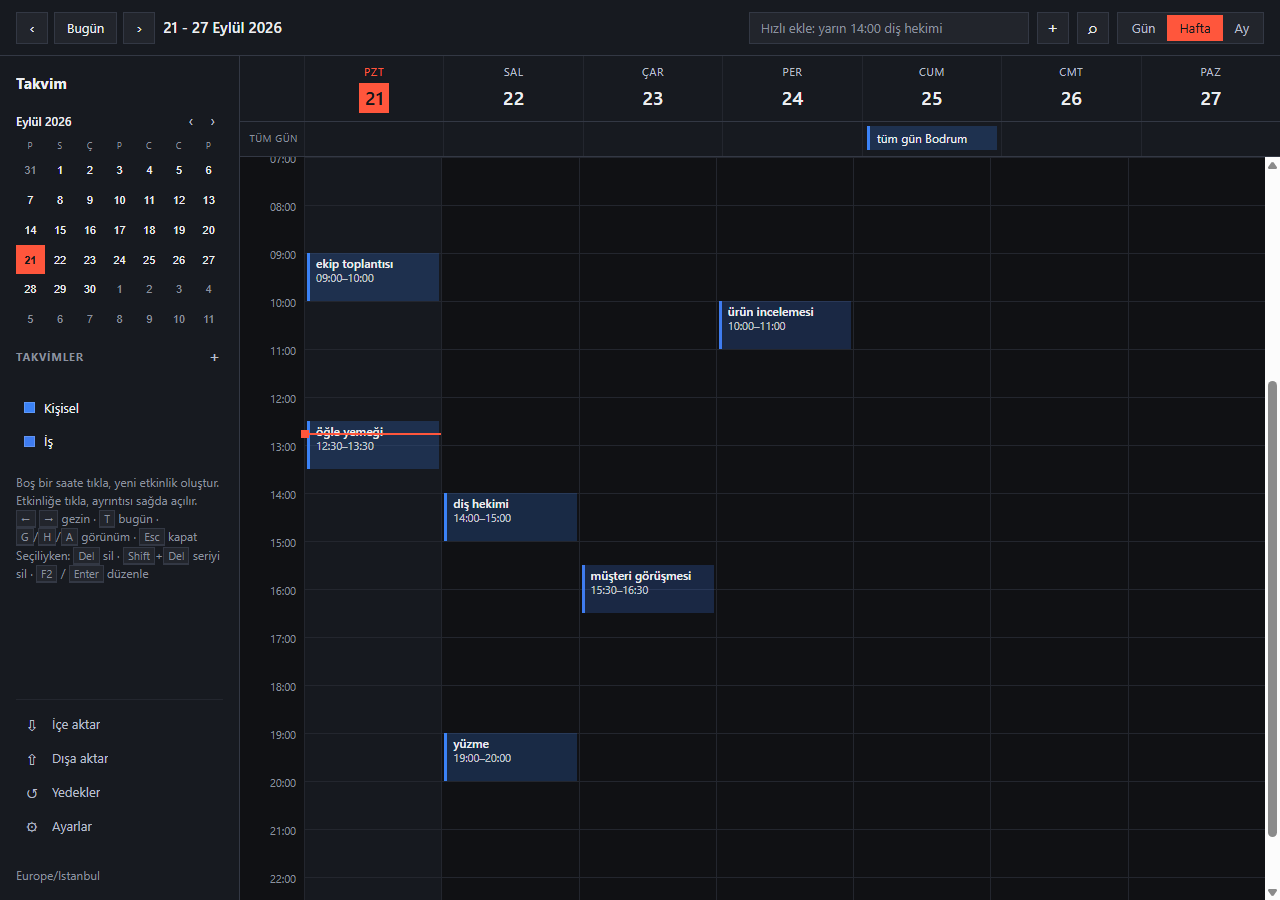
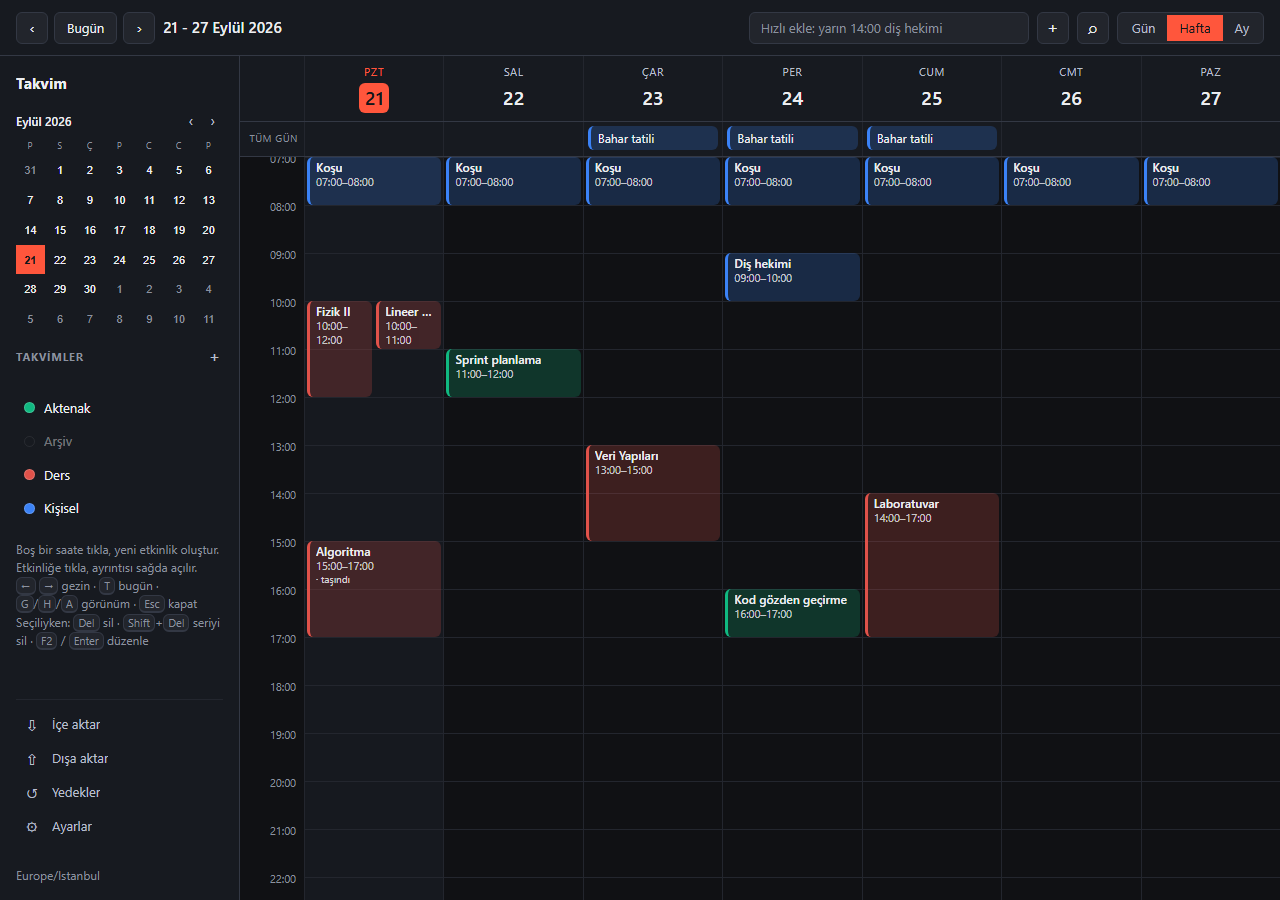
README: metin hatalarını düzelt, hero ekran görüntüsünü güncelle
- Gerçek TAB baytı yüzünden bozuk olan log yolu düzeltildi
  (%LOCALAPPDATA%\Takvim<TAB>akvim.log -> ...\Takvim\takvim.log)
- Otomatik başlatma PowerShell örneğindeki sabit kişisel yol
  (C:\Users\Arda\...) kaldırıldı, proje kökünden otomatik türetiliyor;
  kısayol adı kodla (Takvim Hatırlatıcı.lnk) eşleşecek şekilde düzeltildi
- "DPI farkındalığı hâlâ yapılmadı" iddiası güncel değildi (v1.3.0'da
  eklendi) -- §10 buna göre düzeltildi
- Hero ekran görüntüsü yeni köşe yarıçapıyla (6px) ve çoklu takvim
  örneğiyle yeniden alındı (demo veri, gerçek kullanıcı verisi değil)

diff --git a/README.md b/README.md
@@ -242,7 +242,7 @@ Uygulama artık sessizce kapanmıyor: başlatma hatası olursa bir uyarı pencer
 - **Bildirim görünmüyor** — Odaklanma Yardımı toast'ları bastırıyor olabilir.
   Sınamak için: `Takvim.exe` yerine `python -m remind --test`.
 - **Hiçbir şey olmuyor** — `.exe` artık penceresiz derlendiği için ekranda
-  konsol yok; ne olduğu `%LOCALAPPDATA%\Takvim	akvim.log` dosyasında yazıyor.
+  konsol yok; ne olduğu `%LOCALAPPDATA%\Takvim\takvim.log` dosyasında yazıyor.
 - **"Windows bilgisayarınızı korudu"** — `.exe` imzasız olduğu için SmartScreen
   ilk çalıştırmada uyarabilir. Adım adım: bkz. §5, "İlk kurulum" altı.
 
@@ -557,8 +557,9 @@ arayüzdeki ⚙ Ayarlar kutusundaki anahtar yeterli (kurulumu da kaldırılması
 oradan). Elle yapmak istersen karşılığı:
 
 ```powershell
-$hedef = "$env:APPDATA\Microsoft\Windows\Start Menu\Programs\Startup\Takvim Hatirlatici.lnk"
-$kok = "C:\Users\Arda\Desktop\Aktenak\Projeler\takvim"
+# Takvim proje kökünde çalıştır (bu klasörde .venv\ olmalı).
+$hedef = "$env:APPDATA\Microsoft\Windows\Start Menu\Programs\Startup\Takvim Hatırlatıcı.lnk"
+$kok = (Get-Location).Path
 $w = New-Object -ComObject WScript.Shell
 $k = $w.CreateShortcut($hedef)
 $k.TargetPath = "$kok\.venv\Scripts\pythonw.exe"
@@ -622,10 +623,12 @@ v1 sonrası eklenenler (kapsamı büyütmeden, konfor + güvenlik):
 - Sistem tepsisine küçült + Ayarlar kutusu + otomatik başlatma kaydı
   (ikisi de varsayılan kapalı)
 - "Bundan sonrasını değiştir" (seri bölme, THISANDFUTURE karşılığı)
+- Monitör başına DPI farkındalığı (çoklu monitör/farklı ölçekte bulanıklık
+  düzeltildi) + köşeler yumuşatıldı + ay görünümü/arama/gün listesi klavye
+  ve ekran okuyucuyla da kullanılabiliyor (bkz. CHANGELOG [1.3.0])
 
-Hâlâ bilinçli olarak yapılmayanlar: kendi sağ tık menüsü, monitör başına DPI
-farkındalığı, bildirimde kendi uygulama adı (PowerShell AUMID'i ödünç
-alınıyor; kaydı sistem değişikliği).
+Hâlâ bilinçli olarak yapılmayanlar: kendi sağ tık menüsü, bildirimde kendi
+uygulama adı (PowerShell AUMID'i ödünç alınıyor; kaydı sistem değişikliği).
 
 ---
 
